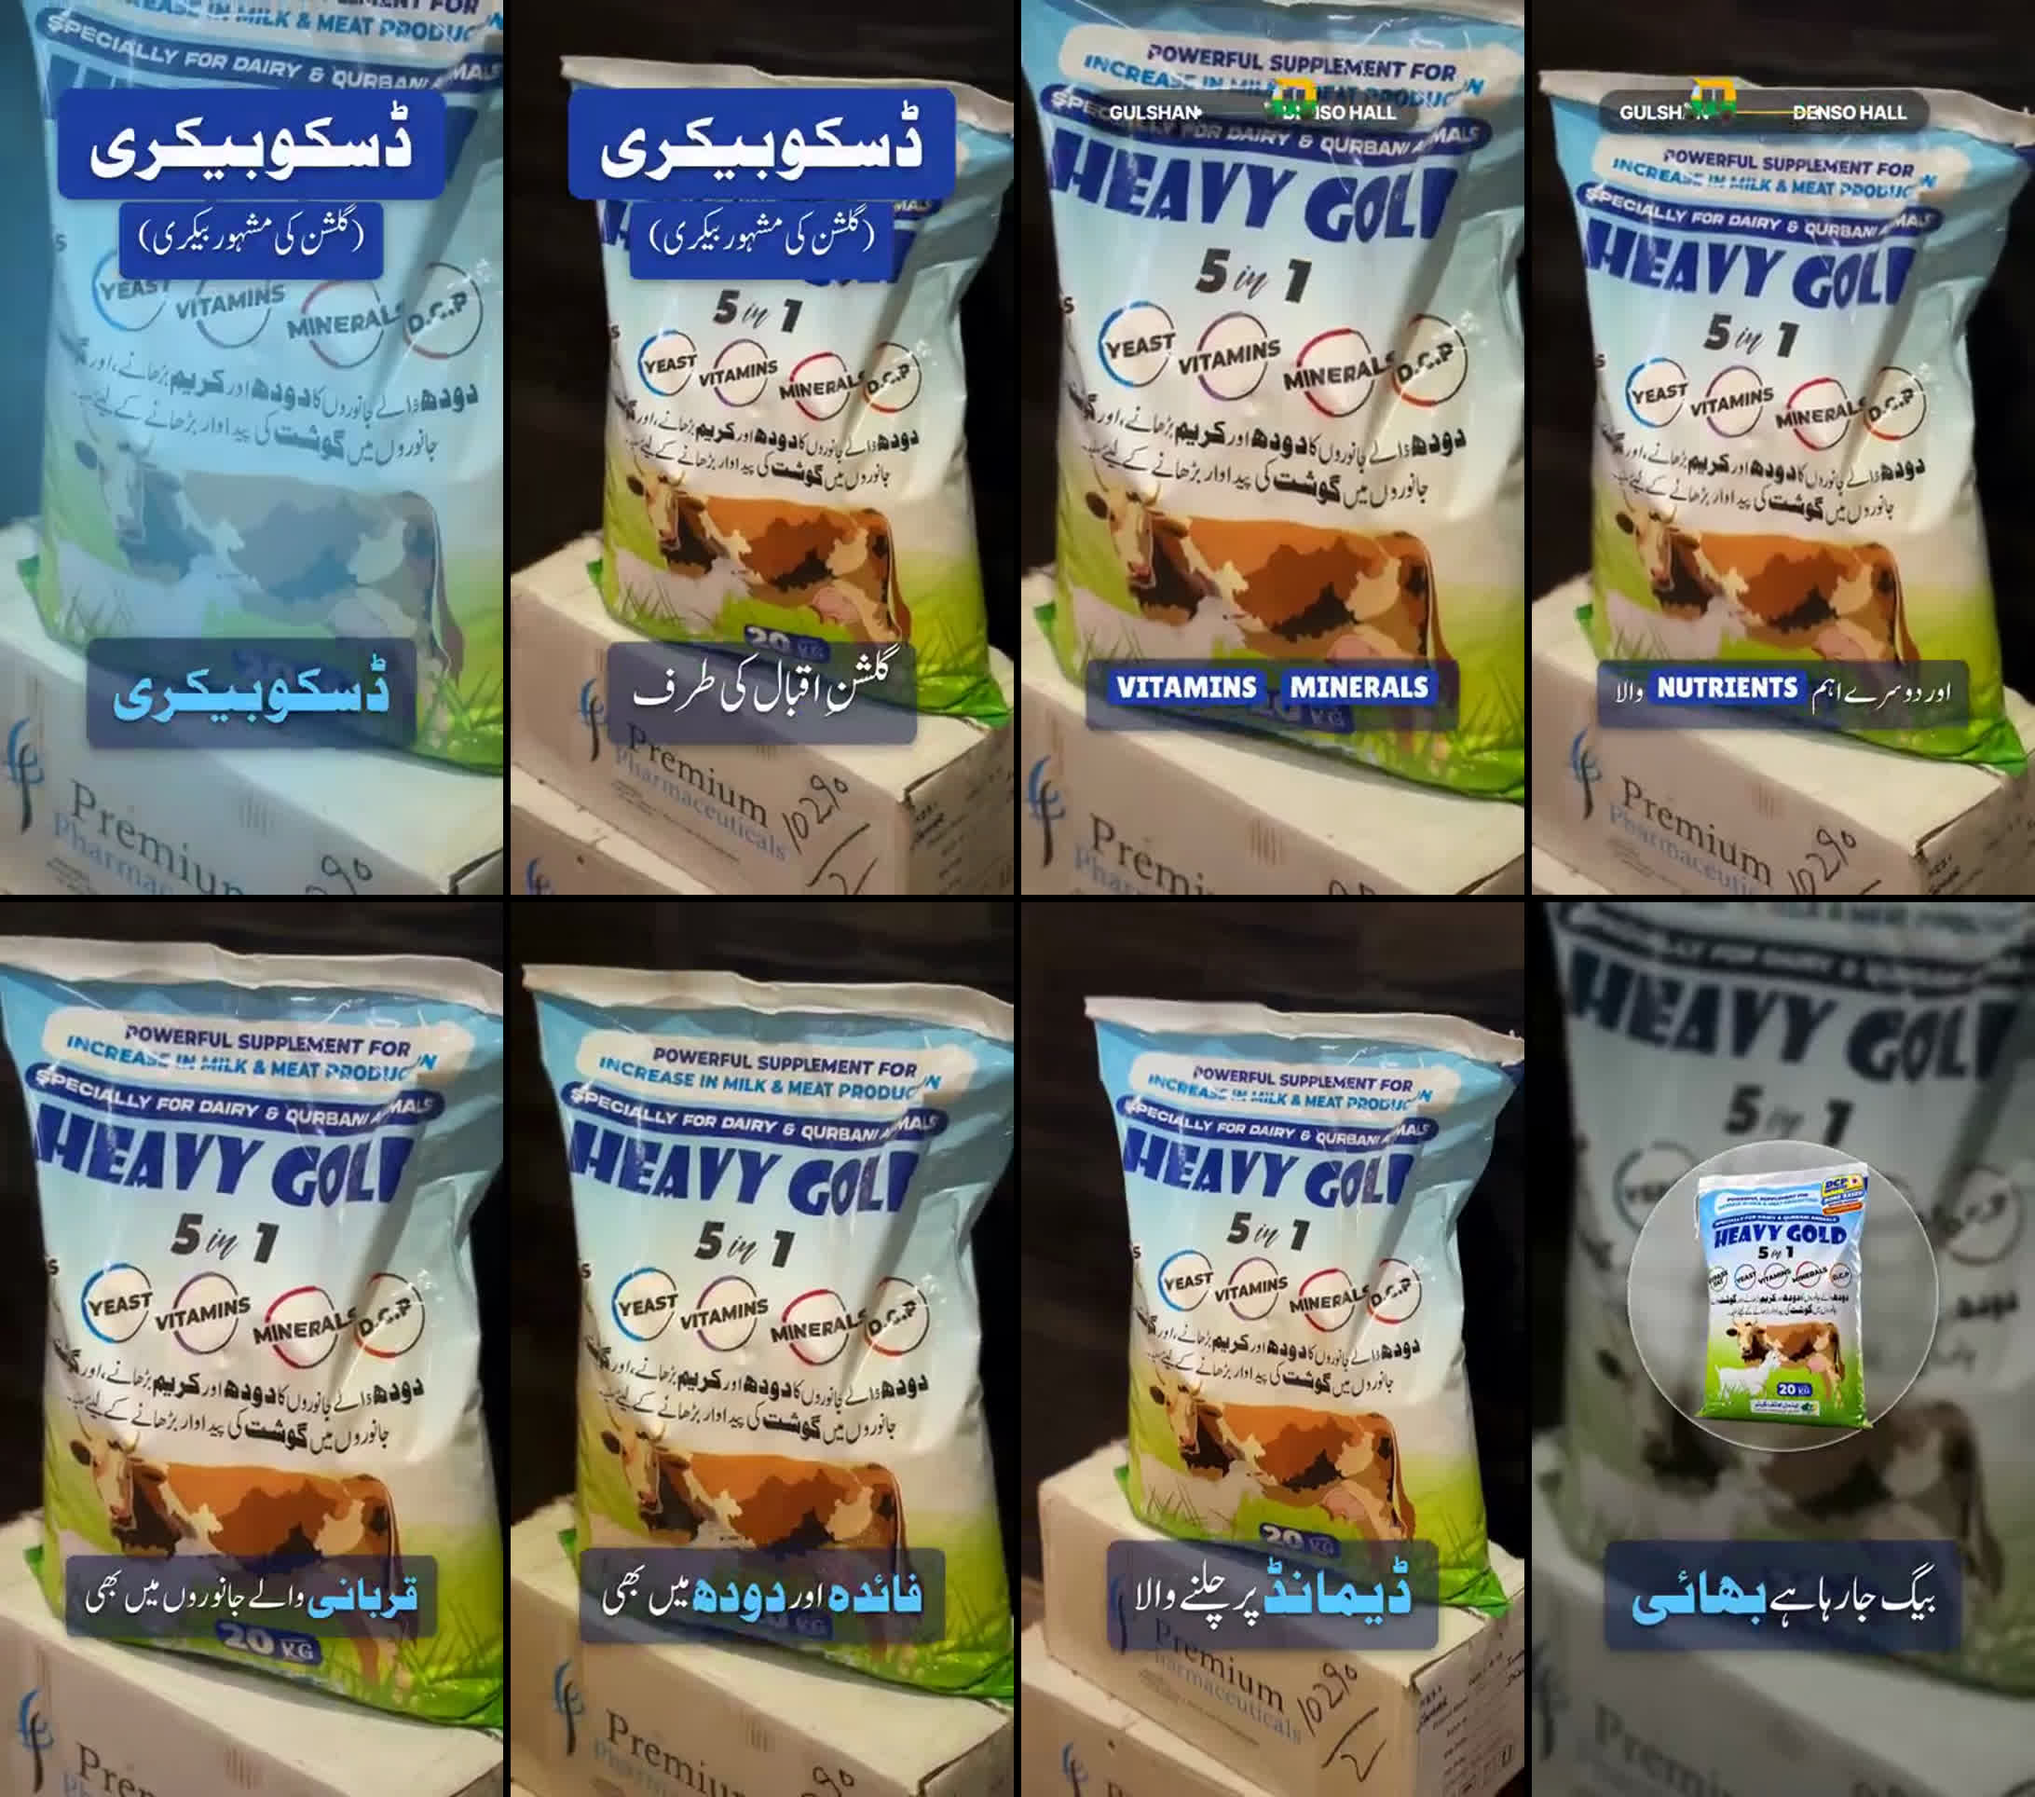
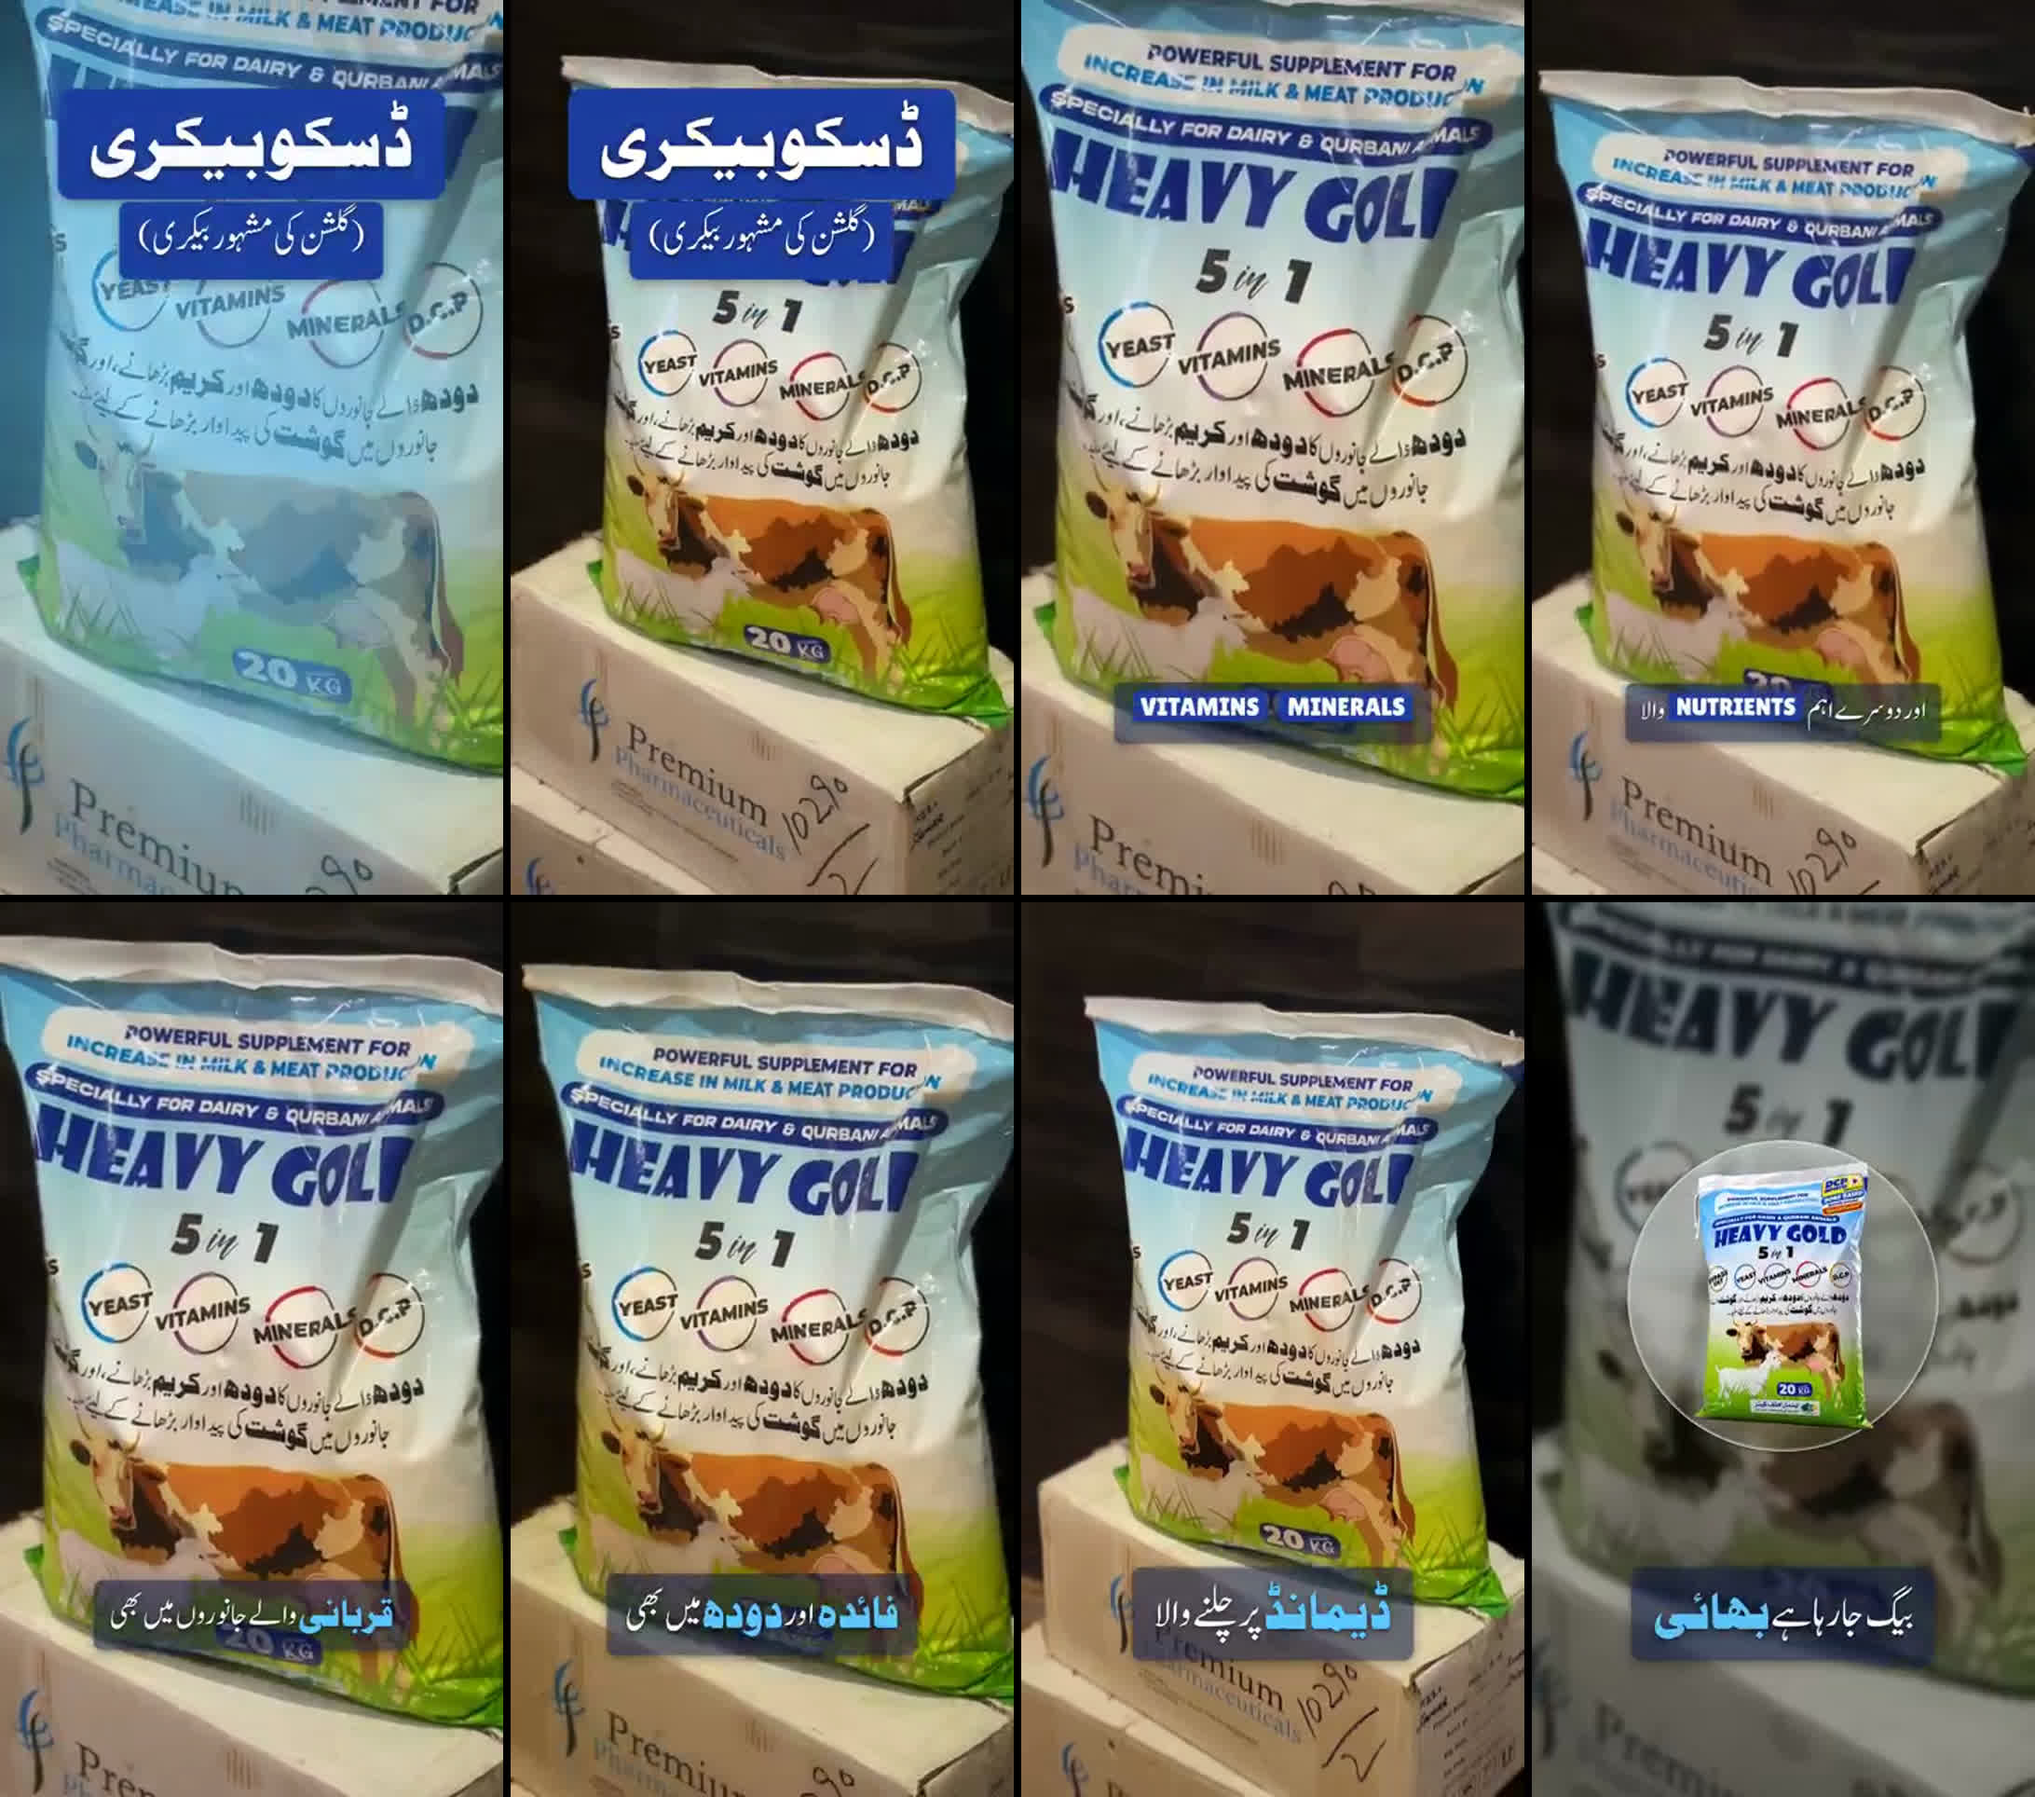
disco-bakery: decluttered storyboard
Claude-Session: https://claude.ai/code/session_0139To4Bi5mkGo2BmfVPNRP3

diff --git a/Video Edits/Export/disco-bakery/storyboard.md b/Video Edits/Export/disco-bakery/storyboard.md
@@ -6,7 +6,7 @@ Heavy Gold bag going to Disco Bakery, Gulshan-e-Iqbal: vitamins, minerals, nutri
 
 ## Style taken from the reference
 
-Same as clip-nov21: Noori subtitles + Aslam sky-blue key words, English words on royal-blue Lilita pills (Heavy Gold bag palette), heading on royal-blue plates, mini trip bar, Heavy Gold end card on a crystal disc, click SFX, 4K, brighter + more saturated.
+Same as clip-nov21: Noori subtitles + Aslam sky-blue key words, English words on royal-blue Lilita pills (Heavy Gold bag palette), heading on royal-blue plates, mini trip bar, Heavy Gold end card on a crystal disc, click SFX, 4K, brighter + more saturated. Owner: don't clutter text -> no subtitles under the heading, no trip bar, smaller subtitles.
 
 ![overview](storyboard/overview.jpg)
 
